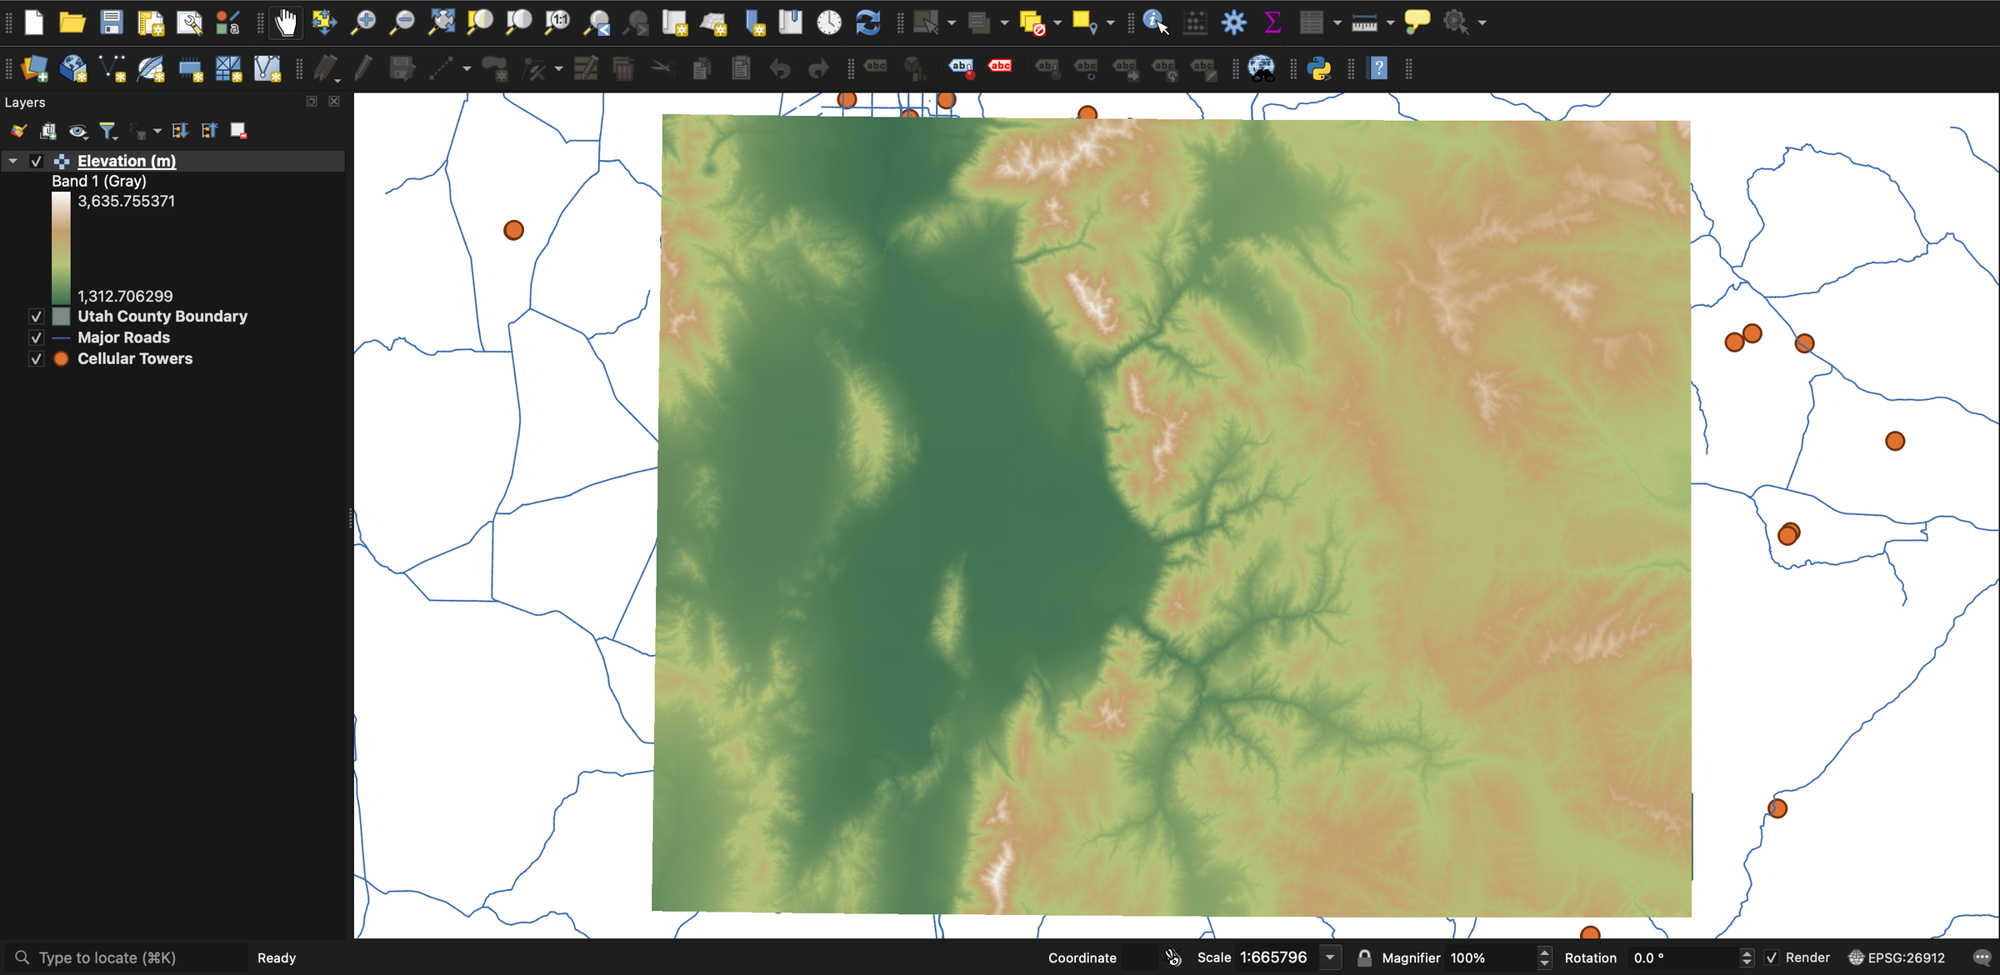
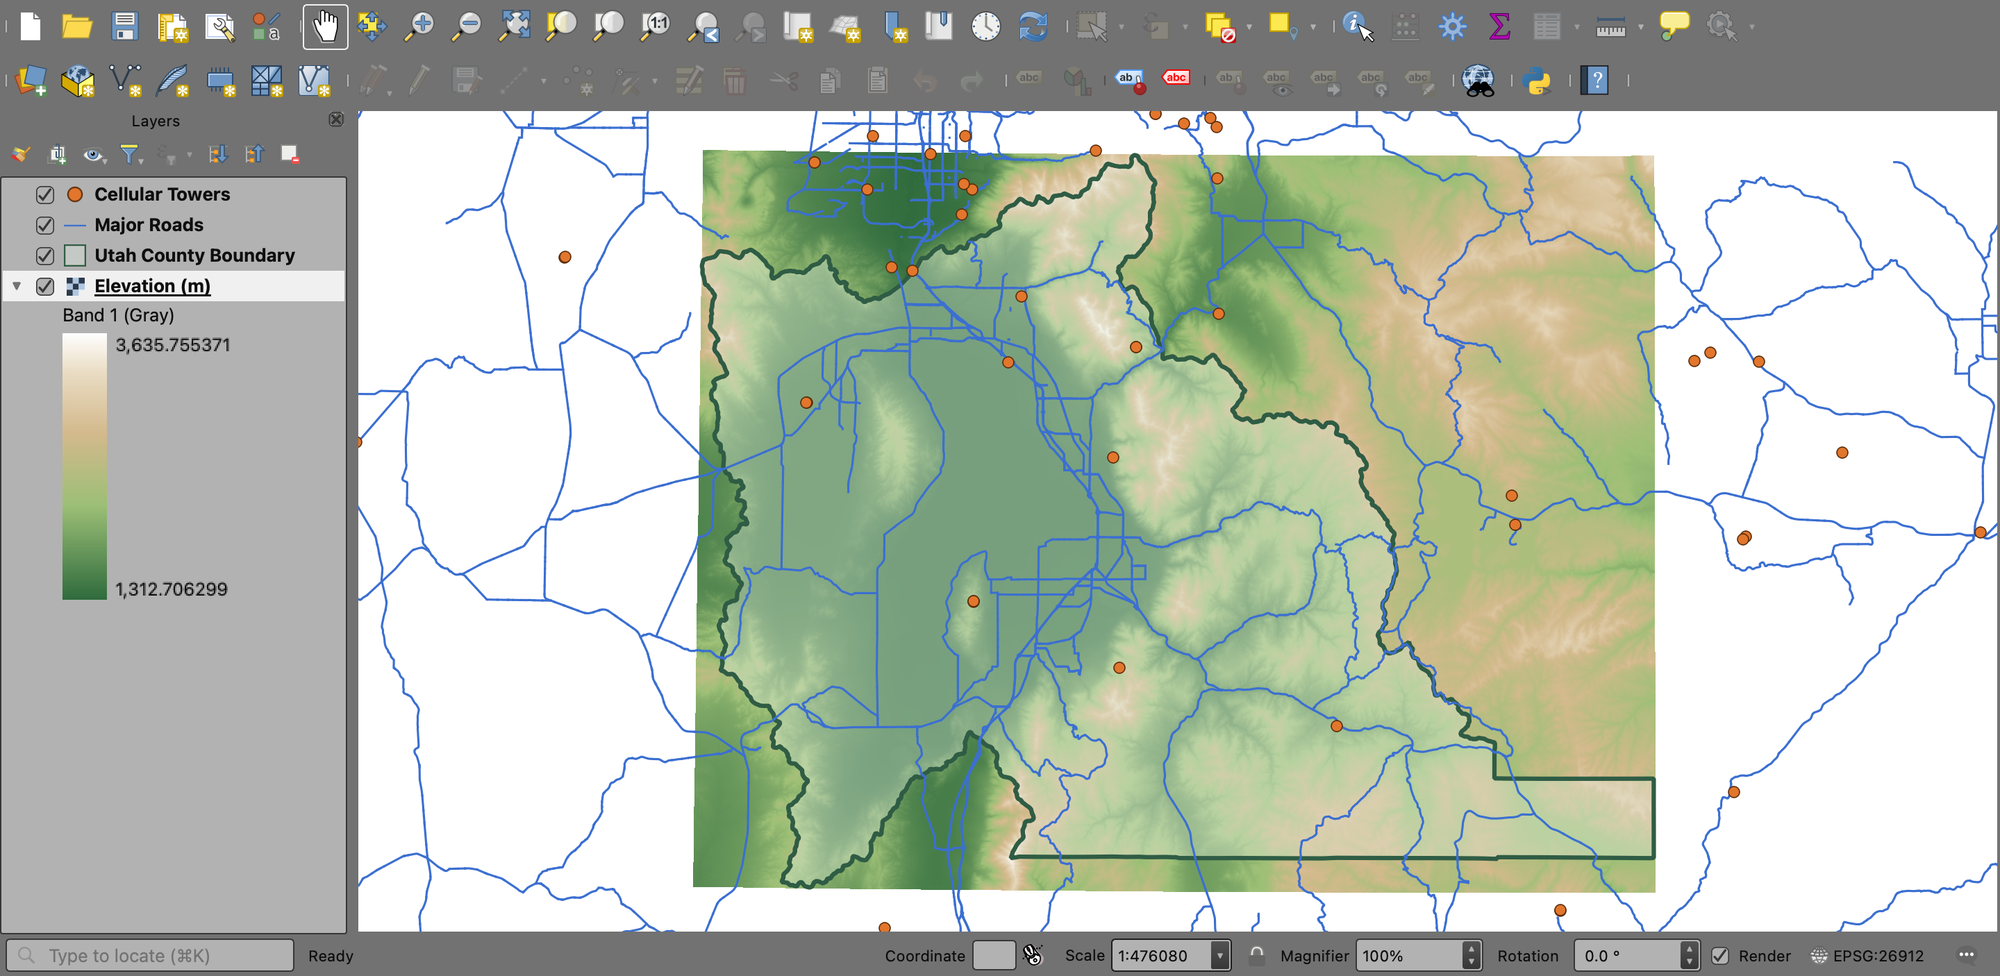
Day 2: re-shoot the all-five demo screenshot with the raster under the vector layers
The demo project had Elevation at the top of the layer stack, so on the "All five
together" slide the raster covered the roads, towers, and county boundary. Rebuilt the
project in QGIS 3.44 with Cellular Towers, Major Roads, Utah County Boundary, Elevation (m)
top to bottom and had QGIS grab its own window at 2x. The same image is the title-slide
background. Script saved as tools/qgis_day02_demo_shots.py; the other four demo shots are
noted in the image handoff as still showing the old order.

diff --git a/tools/qgis_day02_demo_shots.py b/tools/qgis_day02_demo_shots.py
@@ -1,0 +1,120 @@
+# Day 2 demo screenshots: rebuild the "Utah County in QGIS" project and have QGIS 3.44 grab
+# its own main window. Runs INSIDE QGIS at launch, from a terminal:
+#
+#   cd <scratch dir>; unzip docs/lectures/data/UtahCountyData.zip -d ucd
+#   DEMO_DIR="$PWD" SHOT=all-five /Applications/QGIS.app/Contents/MacOS/QGIS --nologo \
+#       --code /path/to/qgis_day02_demo_shots.py
+#
+# SHOT is one of all-five, raster, polygon, polyline, point (which layers are checked).
+# Output: $DEMO_DIR/day02out/dm-demo-<SHOT>.png at 2x (2880x1406 for a 1440x703 window); the
+# deck images are that resized to 2000 px wide. QGIS quits itself when done (about 15 s).
+#
+# Layer order is the point of this script: Cellular Towers, Major Roads, Utah County Boundary,
+# Elevation (m) top to bottom, so the raster draws underneath the vector layers.
+# Gotchas: QGIS execs --code files, so __file__ is undefined (hence DEMO_DIR); the project CRS
+# gets reset to the default after layers are added, so it is re-asserted before zooming; grab
+# only after mapCanvasRefreshed or the canvas comes out blank; QWidget.grab drops the title bar.
+import os, sys, traceback
+from qgis.core import (QgsProject, QgsVectorLayer, QgsRasterLayer, QgsCoordinateReferenceSystem,
+                       QgsSingleBandPseudoColorRenderer, QgsColorRampShader, QgsRasterShader,
+                       QgsGradientColorRamp, QgsGradientStop, QgsRasterBandStats, QgsSymbol,
+                       QgsMarkerSymbol, QgsLineSymbol, QgsFillSymbol, QgsUnitTypes)
+from qgis.PyQt.QtCore import QTimer, Qt
+from qgis.PyQt.QtGui import QColor
+from qgis.utils import iface
+
+# QGIS runs --code files with exec(open(f).read()), so __file__ is not defined: take the dir from env
+SCR = os.environ['DEMO_DIR']
+UCD = os.path.join(SCR, 'ucd', 'UtahCountyData')
+OUT = os.path.join(SCR, 'day02out'); os.makedirs(OUT, exist_ok=True)
+LOG = os.path.join(OUT, 'log.txt')
+SHOT = os.environ.get('SHOT', 'all-five')   # which view to stage
+
+def log(*a):
+    with open(LOG, 'a') as f: f.write(' '.join(str(x) for x in a) + '\n')
+
+def build():
+    p = QgsProject.instance(); p.clear()
+    # add bottom-up: each new layer goes on top of the tree
+    dem = QgsRasterLayer(os.path.join(UCD, 'UtahCountyDEM.tif'), 'Elevation (m)')
+    bnd = QgsVectorLayer(os.path.join(UCD, 'UtahCountyBoundary.shp'), 'Utah County Boundary', 'ogr')
+    rds = QgsVectorLayer(os.path.join(UCD, 'UtahCountyMajorRoads.shp'), 'Major Roads', 'ogr')
+    twr = QgsVectorLayer(os.path.join(UCD, 'UtahCountyCellularTowers.shp'), 'Cellular Towers', 'ogr')
+    for l in (dem, bnd, rds, twr):
+        log('layer', l.name(), l.isValid()); p.addMapLayer(l)
+    crs = QgsCoordinateReferenceSystem('EPSG:26912'); p.setCrs(crs); iface.mapCanvas().setDestinationCrs(crs)
+    log('crs', p.crs().authid(), iface.mapCanvas().mapSettings().destinationCrs().authid(), 'dem', dem.crs().authid(), 'bnd', bnd.crs().authid())
+
+    # Elevation: green -> tan -> white hypsometric ramp over the band's real min/max
+    stats = dem.dataProvider().bandStatistics(1, QgsRasterBandStats.Min | QgsRasterBandStats.Max)
+    lo, hi = stats.minimumValue, stats.maximumValue; log('dem range', lo, hi)
+    ramp = QgsGradientColorRamp(QColor('#2f6b3d'), QColor('#ffffff'),
+                                stops=[QgsGradientStop(0.35, QColor('#9cbf76')),
+                                       QgsGradientStop(0.62, QColor('#d3b98c')),
+                                       QgsGradientStop(0.85, QColor('#e9dcc3'))])
+    fcn = QgsColorRampShader(lo, hi, ramp, QgsColorRampShader.Interpolated)
+    fcn.classifyColorRamp(classes=8, band=1, input=dem.dataProvider())
+    shader = QgsRasterShader(); shader.setRasterShaderFunction(fcn)
+    dem.setRenderer(QgsSingleBandPseudoColorRenderer(dem.dataProvider(), 1, shader))
+
+    bnd.setRenderer(bnd.renderer().clone())
+    fill = QgsFillSymbol.createSimple({'color': '228,240,228,95', 'outline_color': '#2f5c44',
+                                       'outline_width': '1.1', 'outline_width_unit': 'MM'})
+    bnd.renderer().setSymbol(fill)
+    rds.renderer().setSymbol(QgsLineSymbol.createSimple({'color': '#3b6fd1', 'width': '0.55', 'width_unit': 'MM'}))
+    twr.renderer().setSymbol(QgsMarkerSymbol.createSimple({'name': 'circle', 'color': '#e2762c',
+                                                            'outline_color': '#5a2d0c', 'outline_width': '0.3',
+                                                            'size': '2.8', 'size_unit': 'MM'}))
+    for l in (dem, bnd, rds, twr):
+        l.triggerRepaint(); iface.layerTreeView().refreshLayerSymbology(l.id())
+    root = p.layerTreeRoot()
+    vis = {'all-five': {dem, bnd, rds, twr}, 'raster': {dem}, 'polygon': {bnd},
+           'polyline': {bnd, rds}, 'point': {bnd, twr}}[SHOT]
+    for l in (dem, bnd, rds, twr):
+        root.findLayer(l.id()).setItemVisibilityChecked(l in vis)
+    iface.setActiveLayer(dem)
+
+    # window chrome: only the Layers panel, sized like the earlier demo shots
+    mw = iface.mainWindow()
+    from qgis.PyQt.QtWidgets import QDockWidget
+    layers_dock = None
+    for d in mw.findChildren(QDockWidget):
+        d.setVisible(d.objectName() == 'Layers')
+        if d.objectName() == 'Layers': layers_dock = d
+    mw.resize(1440, 703)
+    if layers_dock: mw.resizeDocks([layers_dock], [250], Qt.Horizontal)
+    c = iface.mapCanvas(); c.setExtent(bnd.extent()); c.refresh()
+    def on_refreshed():
+        c.mapCanvasRefreshed.disconnect(on_refreshed)
+        log('rendered; canvas', c.width(), c.height(), 'scale', c.scale(), 'crs', c.mapSettings().destinationCrs().authid())
+        QTimer.singleShot(1000, shoot)
+    def settle():
+        crs = QgsCoordinateReferenceSystem('EPSG:26912'); p.setCrs(crs); c.setDestinationCrs(crs)
+        log('settle crs', p.crs().authid(), c.mapSettings().destinationCrs().authid())
+        c.mapCanvasRefreshed.connect(on_refreshed)
+        c.setExtent(bnd.extent()); c.zoomByFactor(1.12); c.refresh()
+    QTimer.singleShot(2500, settle)
+
+def shoot():
+    try:
+        mw = iface.mainWindow(); pm = mw.grab()
+        path = os.path.join(OUT, f'dm-demo-{SHOT}.png'); pm.save(path)
+        log('saved', path, pm.width(), pm.height(), 'scale', iface.mapCanvas().scale())
+    except Exception:
+        log(traceback.format_exc())
+    QgsProject.instance().setDirty(False)
+    QTimer.singleShot(500, iface.mainWindow().close)
+
+def start():
+    try:
+        build()
+    except Exception:
+        log(traceback.format_exc()); QTimer.singleShot(500, iface.mainWindow().close); return
+
+def _guard():
+    try:
+        start()
+    except Exception:
+        log(traceback.format_exc()); iface.mainWindow().close()
+
+QTimer.singleShot(1500, _guard)

diff --git a/tools/image-improvements-handoff.md b/tools/image-improvements-handoff.md
@@ -73,6 +73,16 @@ basemap section), and a fresh QGIS 3.44 Symbology capture, `symbology-tab.png`, 
 The capture came from `tools/qgis_lab01_symbology_shot.py`, a standalone script that runs QGIS's
 bundled Python from a terminal — no QGIS session needed (header has the env vars).
 
+**Day 2 demo screenshots (partly done 2026-09-08):** the "Utah County in QGIS" demo project had its
+layer stack upside down (Elevation on top, towers at the bottom), so the "All five together" slide
+hid the vectors under the raster and the point slide showed towers faded under the polygon fill.
+`dm-demo-all-five.png` (slide 9 on screen, also the title-slide background) was re-shot from QGIS 3.44
+with the raster at the bottom using `tools/qgis_day02_demo_shots.py` (QGIS launches, builds the
+project, grabs its own window, quits). The other four demo shots (`dm-demo-polygon/polyline/point/
+raster.png`) still show the old order and dark panels; the script's SHOT variable stages each one, so
+re-shooting them is one command apiece. Dan's Mac is in light mode and QGIS 3.44 ignores a per-app
+dark-appearance default, so new shots are light.
+
 **Lab 1–2 (lower priority):** UGRC website screenshots still match the live site's
 labels (verified Aug 2026) but predate its current look; QGIS window chrome in older
 shots shows pre-3.44 styling. Refresh opportunistically.
